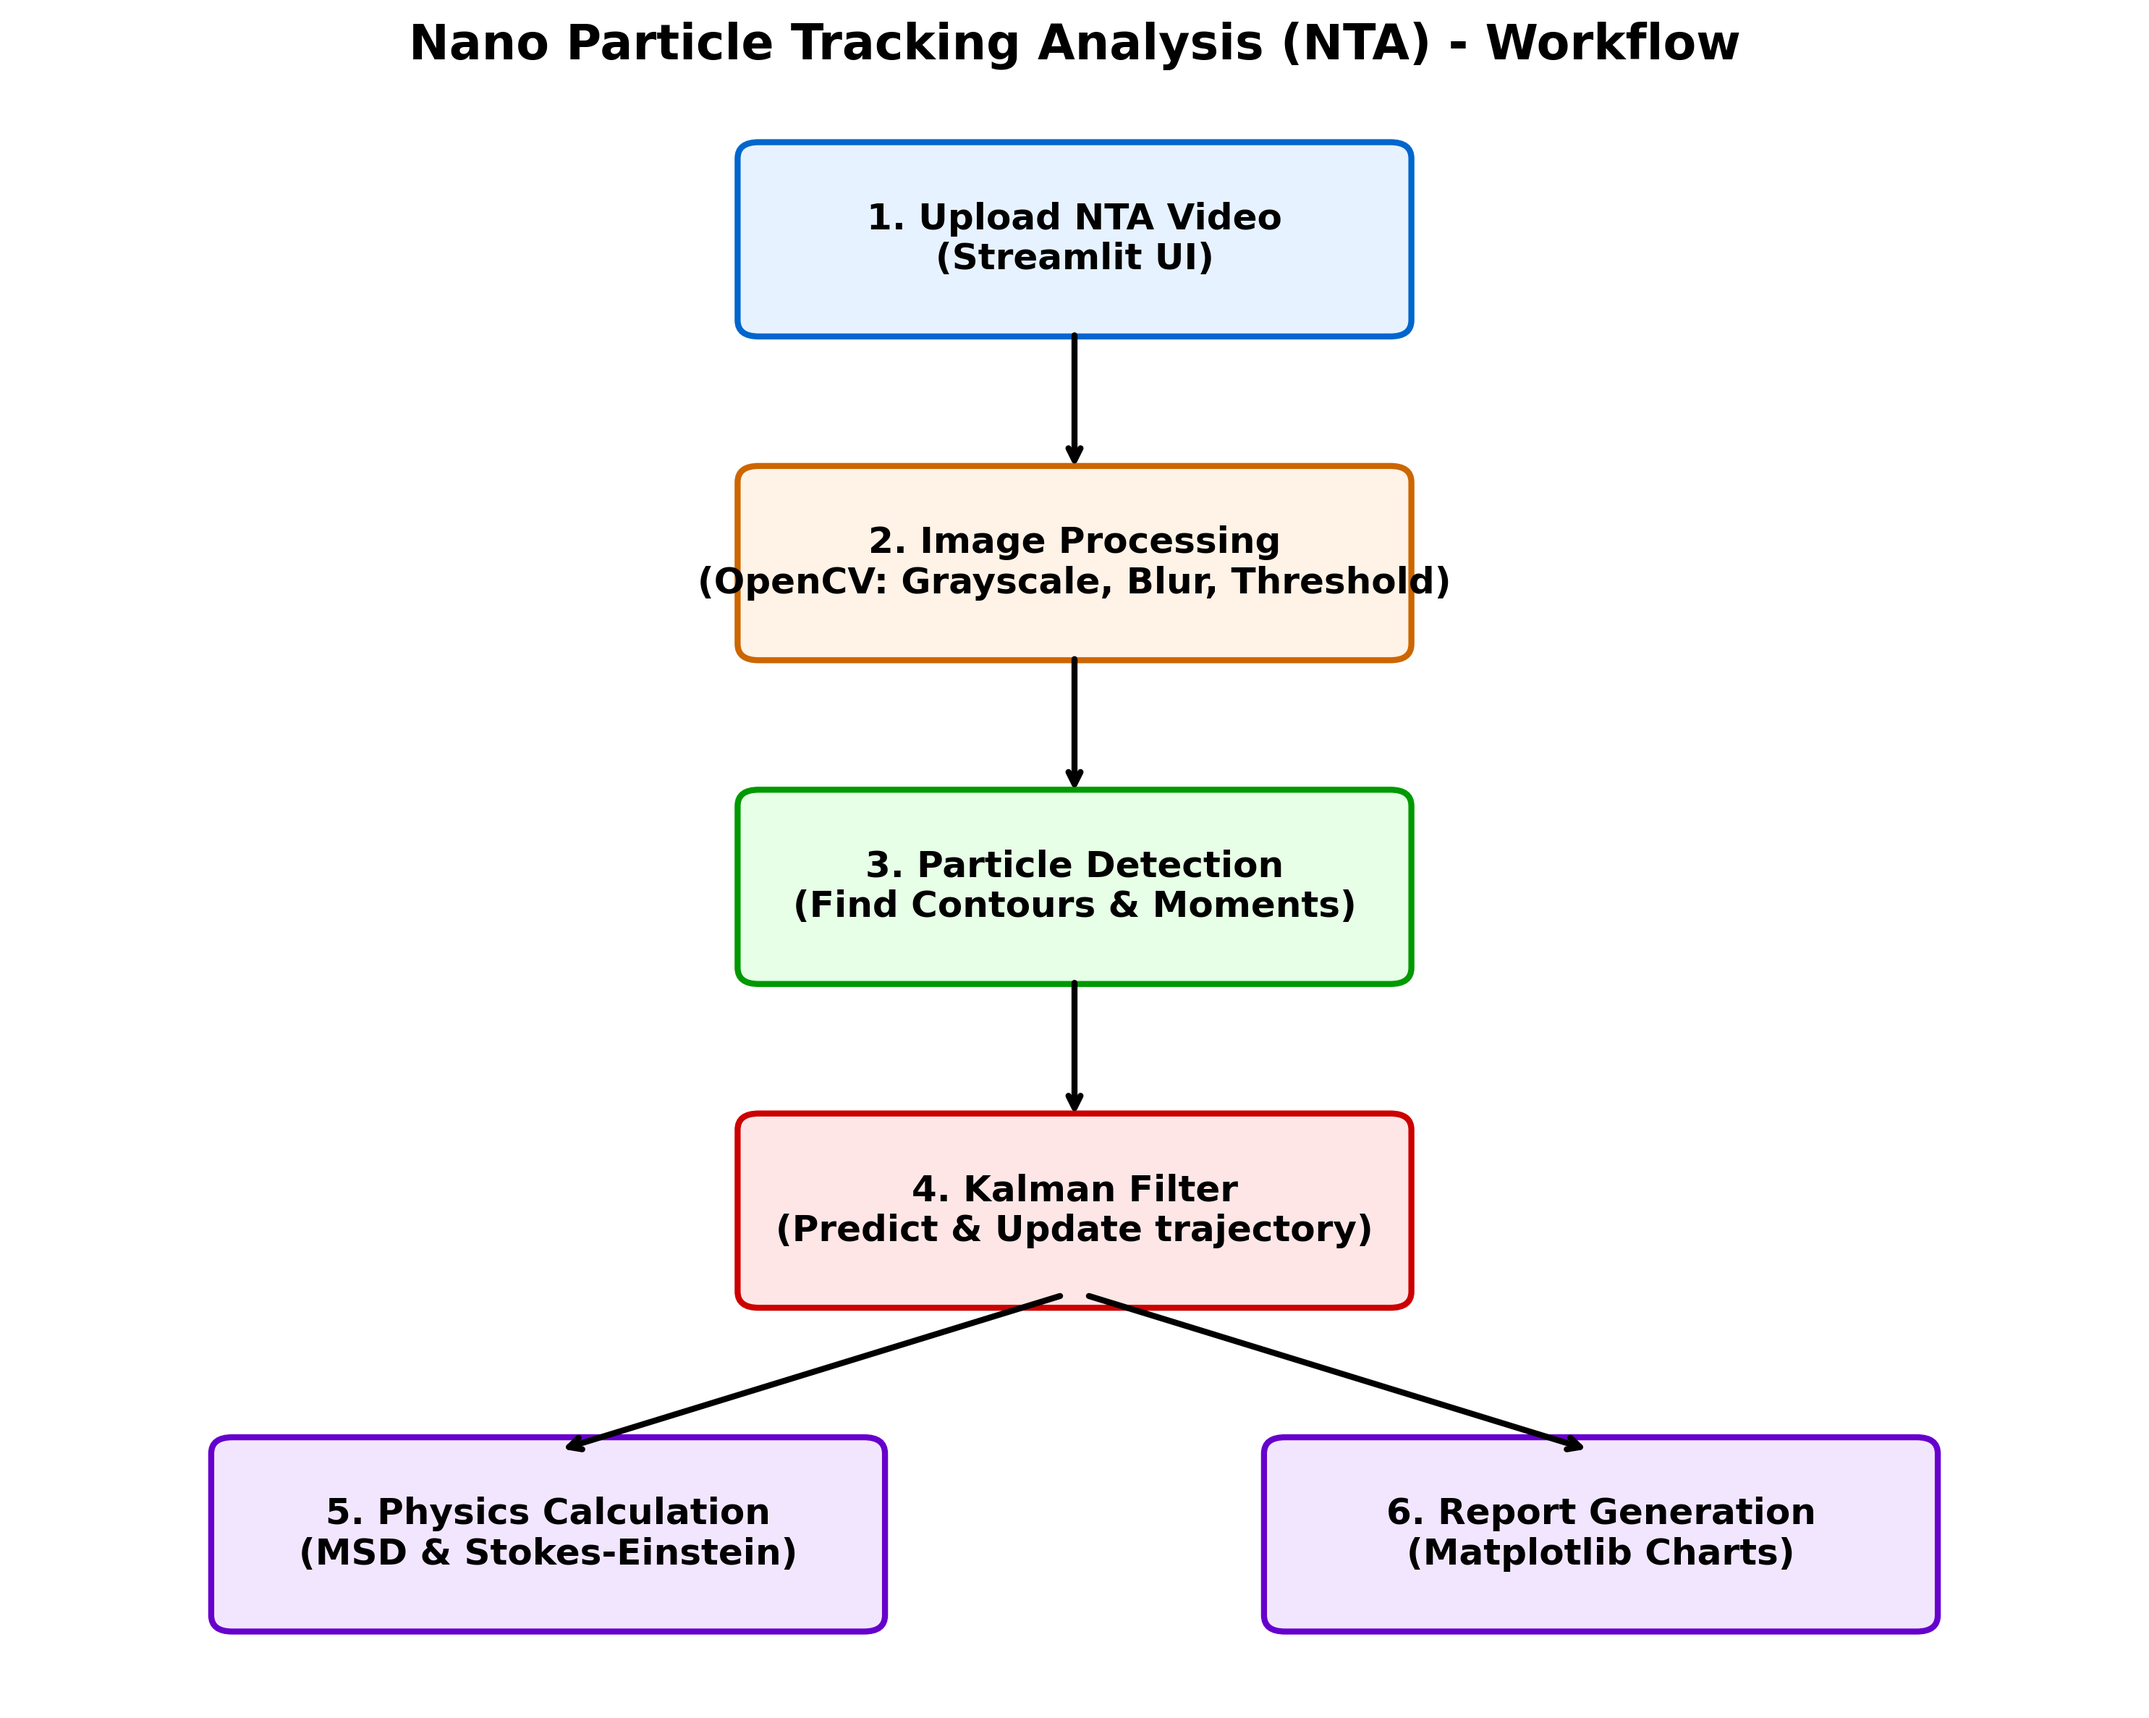
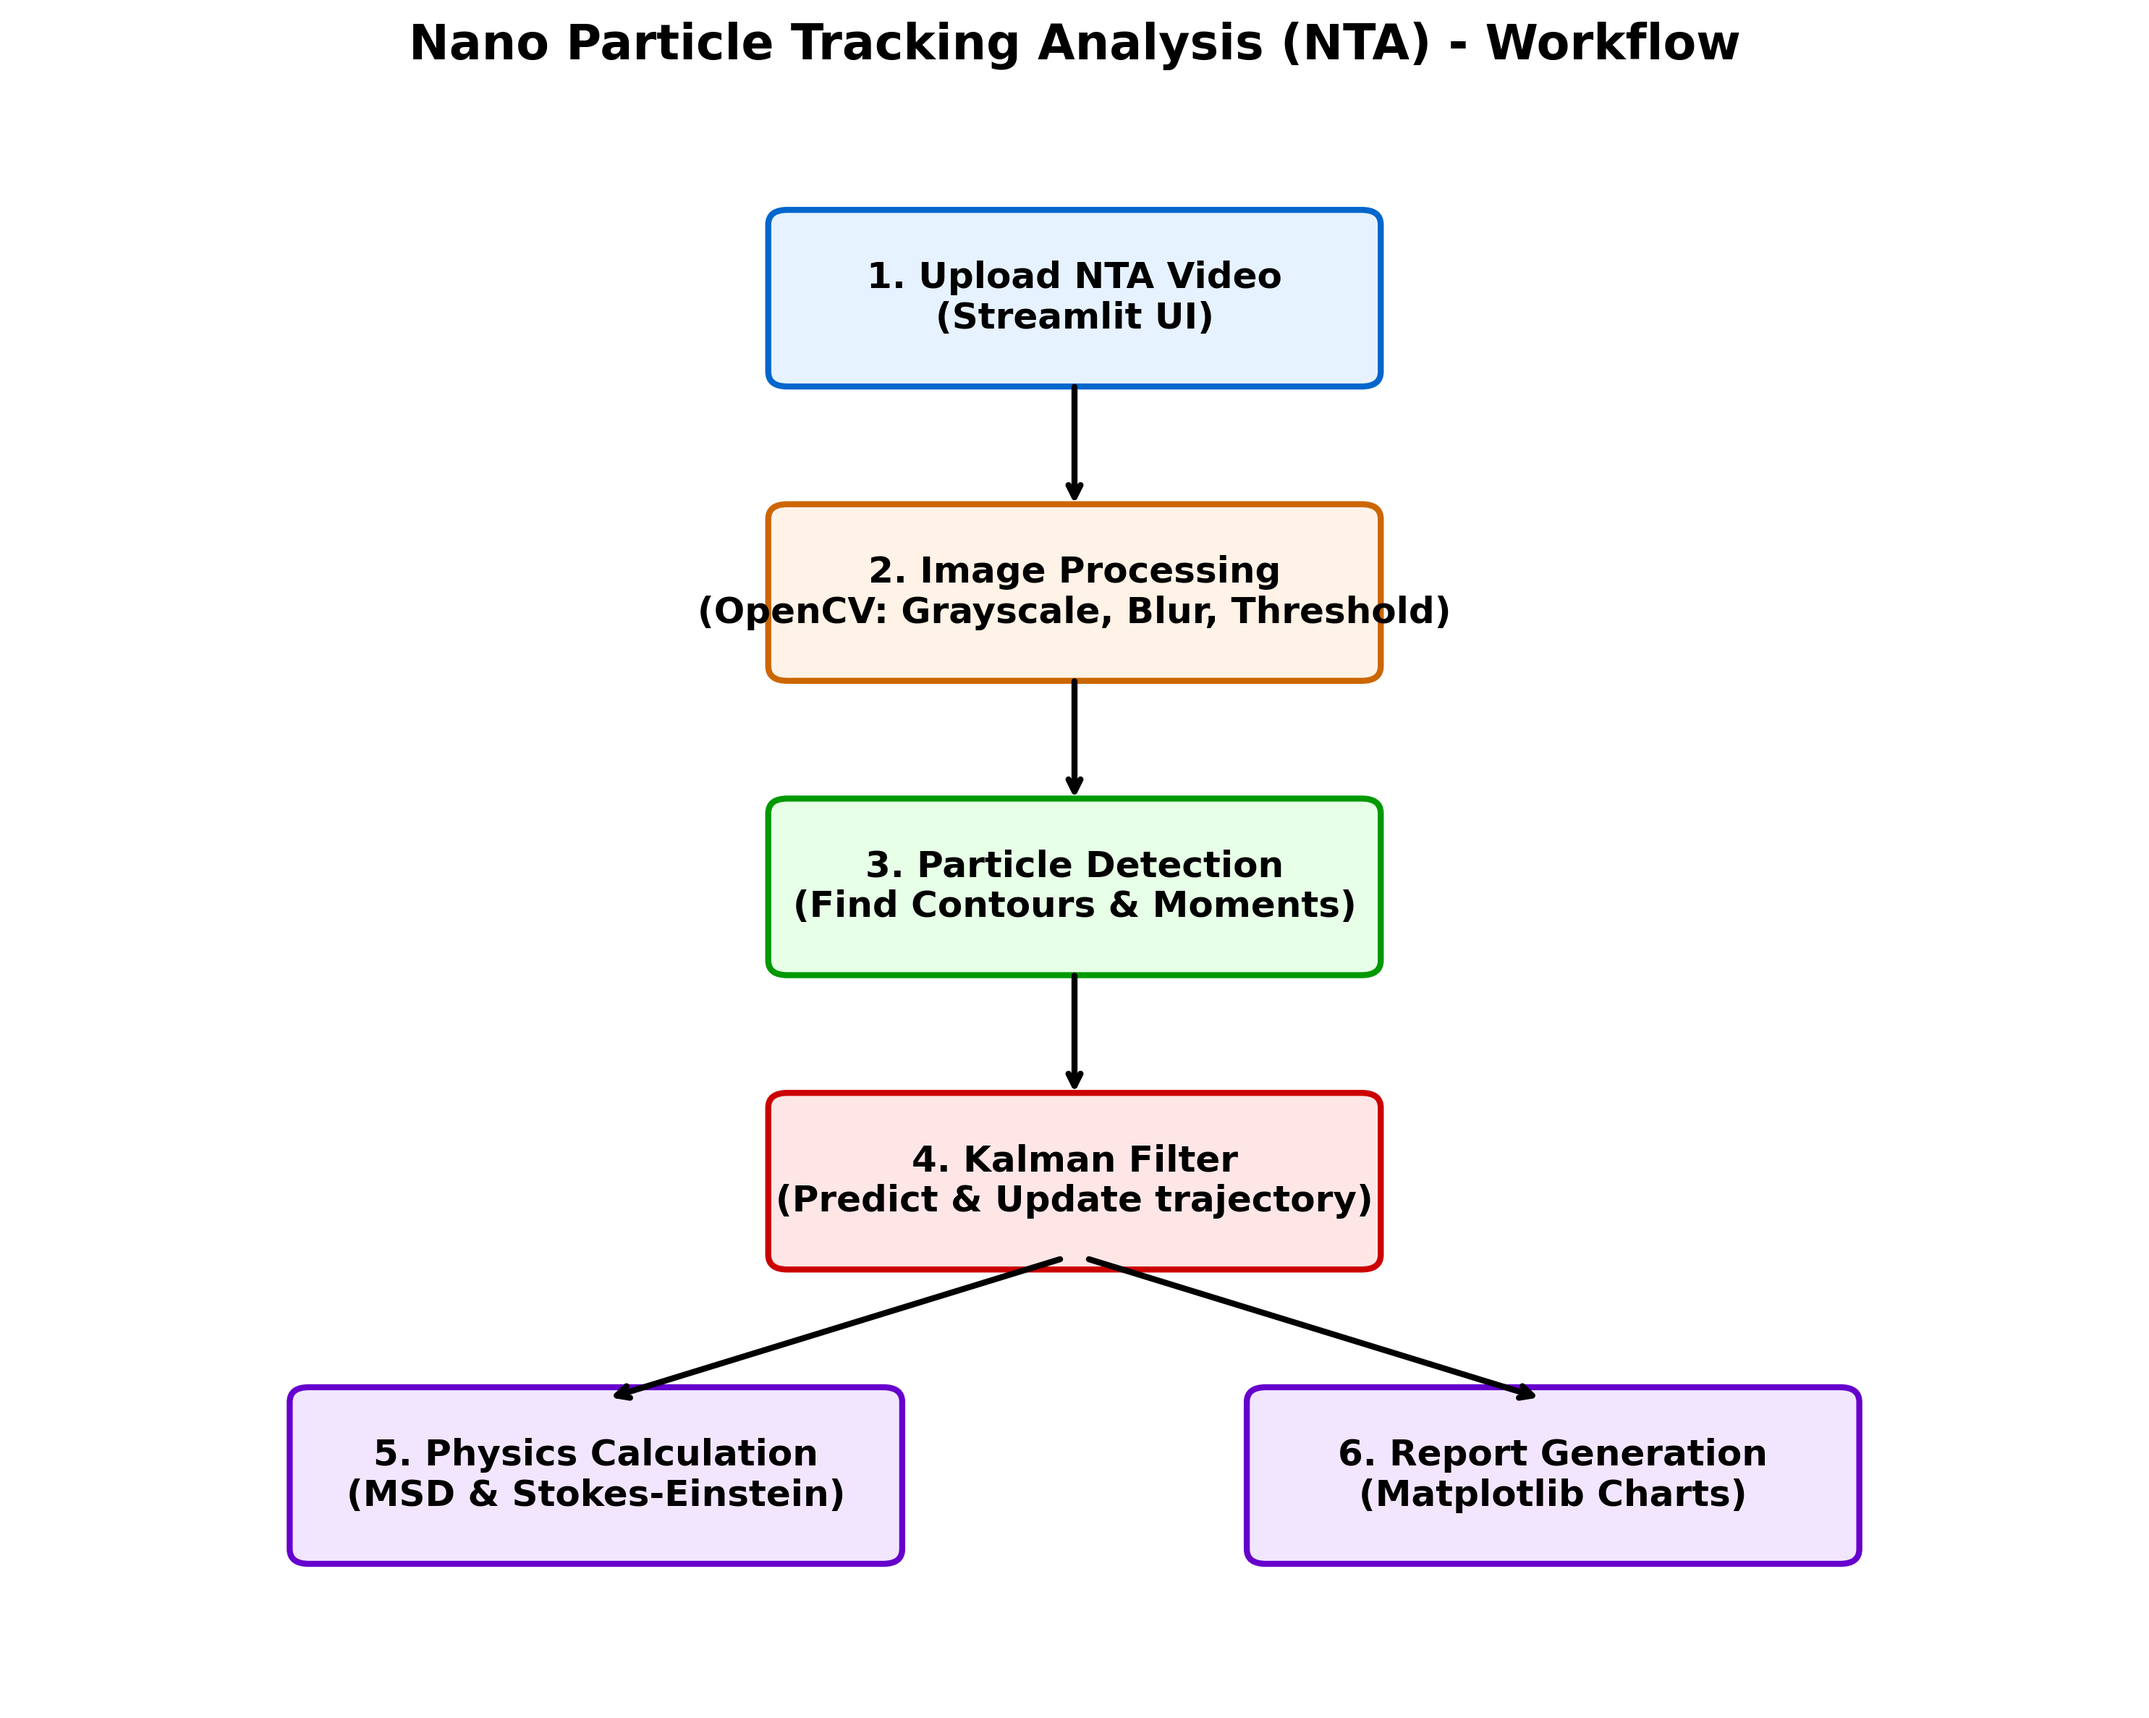
Fix diagram layout and translate README to English

Changed region(s): [[0.0929, 0.6234, 0.9293, 0.9663], [0.3098, 0.0623, 0.6815, 0.4052], [0.3407, 0.4364, 0.6815, 0.5922]]

diff --git a/generate_diagram.py b/generate_diagram.py
@@ -15,8 +15,8 @@ def draw_arrow(ax, x_start, y_start, x_end, y_end):
                 arrowprops=dict(arrowstyle="->", color="black", lw=2, shrinkA=5, shrinkB=5))
 
 fig, ax = plt.subplots(figsize=(10, 8))
-ax.set_xlim(0, 10)
-ax.set_ylim(0, 10)
+ax.set_xlim(-0.5, 10.5)
+ax.set_ylim(-0.5, 10.5)
 ax.axis('off')
 
 # Title

diff --git a/README.md b/README.md
@@ -1,28 +1,28 @@
 # Nano Particle Tracking Analysis (NTA) Web App Pro 🔬
 
-Phần mềm mô phỏng thuật toán **Kalman Filter** sửa lỗi nhận diện AI trong môi trường vi lưu chất.
+Software for simulating the **Kalman Filter** algorithm to correct AI detection errors in microfluidic environments.
 
-## 🚀 Sơ đồ hoạt động (Architecture Workflow)
+## 🚀 Architecture Workflow
 
-Dưới đây là sơ đồ kiến trúc và luồng xử lý của ứng dụng:
+Below is the architecture and processing flow of the application:
 
 ![NTA Workflow Architecture](images/architecture.png)
 
-## 🛠 Hướng dẫn cài đặt & sử dụng
+## 🛠 Installation & Usage Guide
 
-1. Cài đặt các thư viện cần thiết:
+1. Install required libraries:
    ```bash
    pip install -r requirements.txt
    ```
-2. Chạy ứng dụng Streamlit:
+2. Run the Streamlit app:
    ```bash
    streamlit run app.py
    ```
-3. Truy cập ứng dụng qua trình duyệt, tải lên video NTA và cấu hình các thông số để phân tích.
+3. Access the app via browser, upload an NTA video, and configure parameters for analysis.
 
-## ✨ Tính năng chính
+## ✨ Key Features
 
-- Nhận diện và theo dõi hạt Nano qua OpenCV.
-- Thuật toán Kalman Filter để dự đoán và sửa lỗi đường đi của hạt.
-- Tính toán kích thước hạt dựa trên phương trình Stokes-Einstein và Mean Squared Displacement (MSD).
-- Biểu đồ báo cáo vật lý thời gian thực.
+- Nano particle detection and tracking via OpenCV.
+- Kalman Filter algorithm to predict and correct particle trajectories.
+- Particle size calculation based on the Stokes-Einstein equation and Mean Squared Displacement (MSD).
+- Real-time physics reporting charts.
